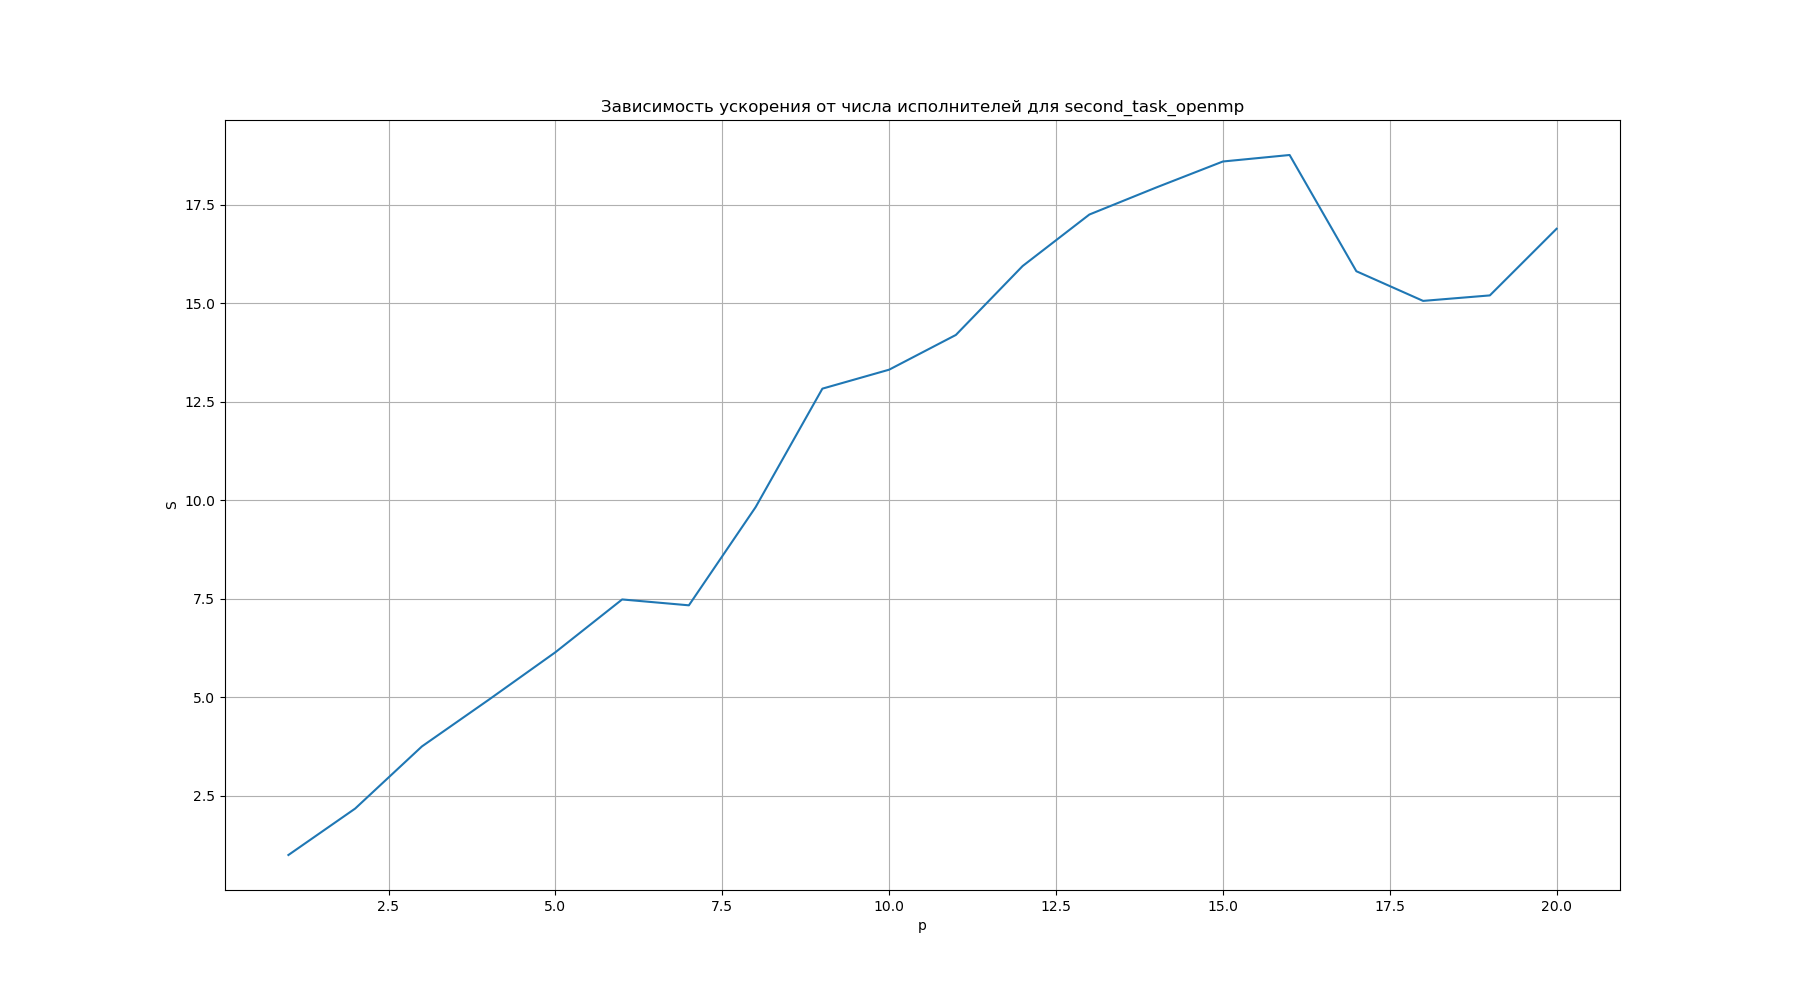
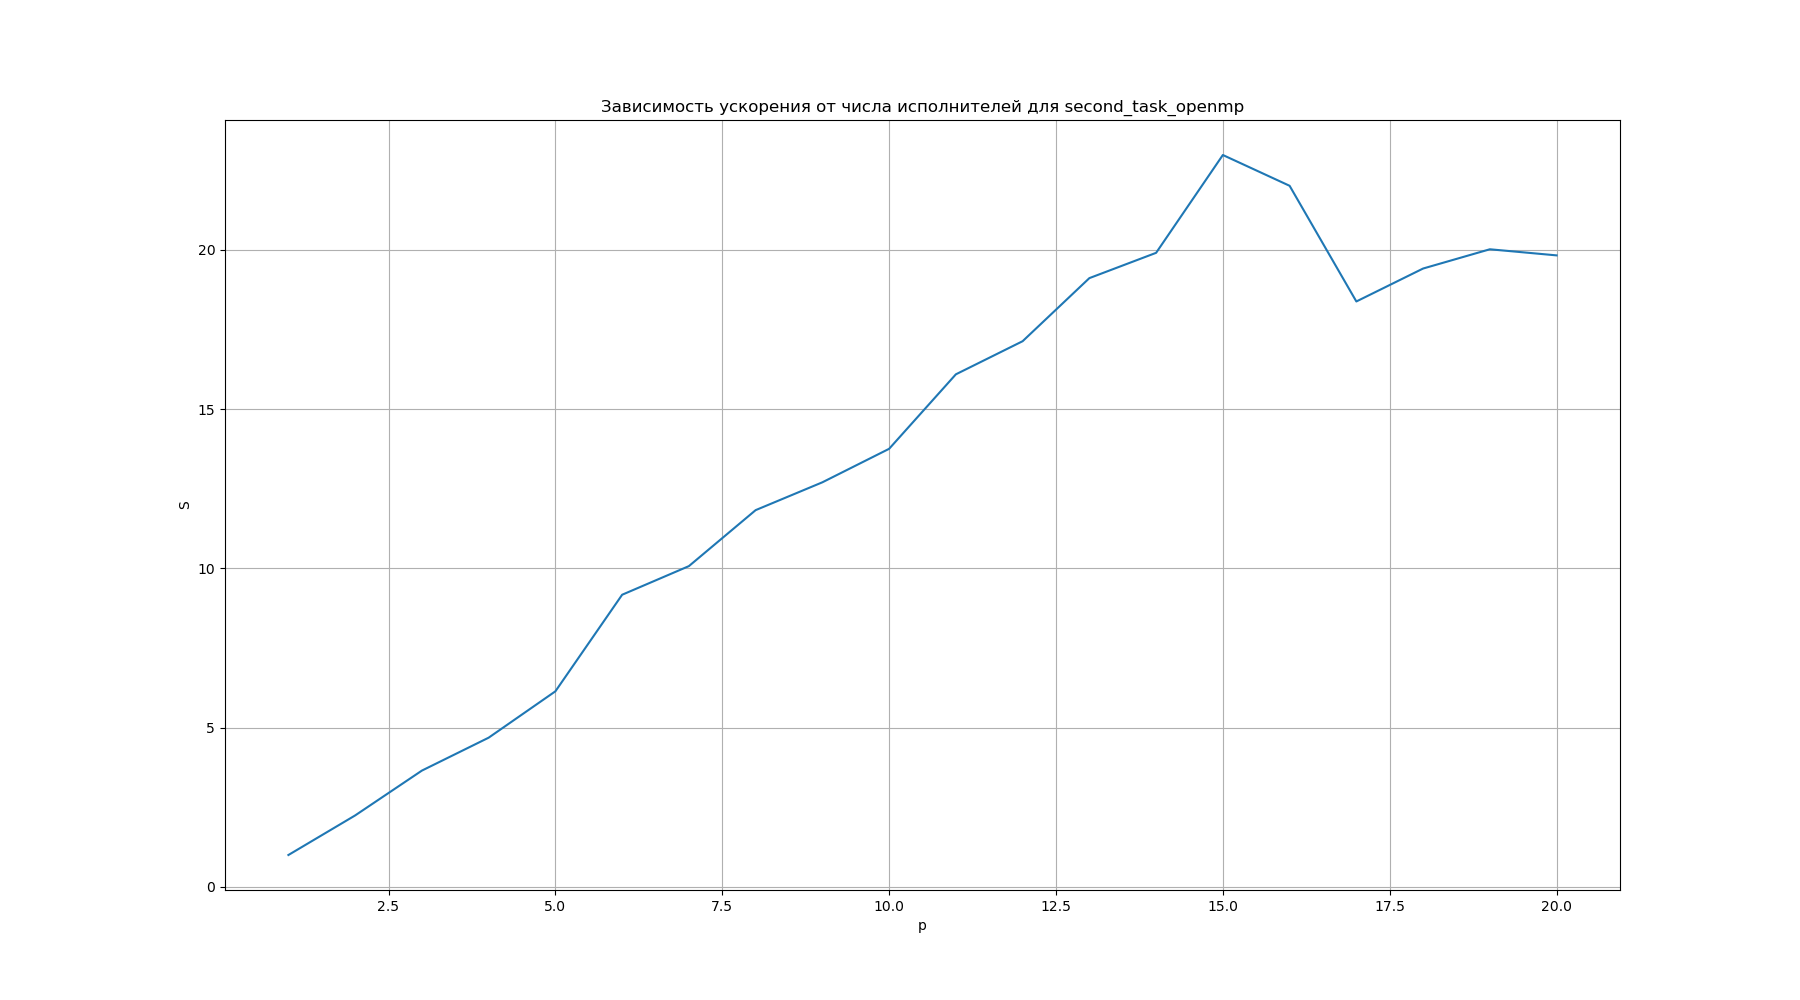
add working 3 task

diff --git a/2_semester/1_lab/src/third_task.cpp b/2_semester/1_lab/src/third_task.cpp
@@ -33,32 +33,19 @@ struct Worker {
         calc_size_ = end_ - start_;
         calc_array_ = new double[calc_size_ * JSIZE];
 
-        first_array_ = new double[calc_size_ * JSIZE];
+        first_array_ = new double[(calc_size_ + !last_rank_ - 1) * JSIZE];
         
-        for (size_t counter = 0; counter < calc_size_; ++counter) {
+        for (size_t counter = 0; counter < calc_size_ + (!last_rank_) - 1; ++counter) {
             for (size_t j = 0; j < JSIZE; ++j) {
-                first_array_[JSIZE * counter + j] = 10 * (start_ + counter) + j;
+                first_array_[JSIZE * counter + j] = 10 * (start_ + counter + 1) + j;
             }
         }
-        if (!last_rank_) {
-            // Since i <- i+ 1 we need only one boundary element with idx = end
-            // [start, end) => idx = end needed for calculate end - 1
-            boundary_arrray_ = new double[1 * JSIZE];
+        
+        StartMeasure();
 
-            for (size_t j = 0; j < JSIZE; ++j) {
-                boundary_arrray_[j] = 10 * end_ + j;
-            }
-        }
-        // StartMeasusre()
-        for (size_t counter = 0; counter < calc_size_; ++counter) {
+        for (size_t counter = 0; counter < calc_size_ + (!last_rank_) - 1; ++counter) {
             for (size_t j = 0; j < JSIZE; ++j) {
                 first_array_[JSIZE * counter + j] = std::sin(0.1 * first_array_[JSIZE * counter + j]);
-            }
-        }
-
-        if (!last_rank_) {
-            for (size_t j = 0; j < JSIZE; ++j) {
-                boundary_arrray_[j] = std::sin(0.1 * boundary_arrray_[j]);
             }
         }
     }
@@ -69,26 +56,35 @@ struct Worker {
             delete[] main_array_;
         }
         
-        if (!last_rank_) {
-            delete[] boundary_arrray_;
-        }
-
         delete[] calc_array_;
     }
 
     void Calculate()
     {
-        for (size_t counter = 0; counter < calc_size_ - 1; ++counter) {
+        for (size_t counter = 0; counter < calc_size_ + (!last_rank_) - 1; ++counter) {
             for (size_t j = 2; j < JSIZE; ++j) {
-                calc_array_[JSIZE * counter + j] = 1.5 * first_array_[JSIZE * (counter + 1) + (j - 2)];
+                calc_array_[JSIZE * counter + j] = 1.5 * first_array_[JSIZE * counter + (j - 2)];
             }
         }
+    }
 
-        if (!last_rank_) {
-            for (size_t j = 2; j < JSIZE; ++j) {
-                calc_array_[JSIZE * (calc_size_ - 1) + j] = 1.5 * boundary_arrray_[JSIZE * ((calc_size_ - 1) + 1) + (j - 2)];
-            }
+    void StartMeasure()
+    {
+        if (rank_ == 0) {
+            time_start_ = MPI::Wtime();
         }
+    }
+    
+    void EndMeasure()
+    {
+        if (rank_ == 0) {
+            time_stop_ = MPI::Wtime();
+        }
+    }
+
+    double GetElapsedTime() const
+    {
+        return time_stop_ - time_start_;
     }
 
     int rank_ {-1};
@@ -104,10 +100,11 @@ struct Worker {
     double *calc_array_ {nullptr};
     // Part of array, from which calc array will be calculate
     double *first_array_ {nullptr};
-    // Array for elements from different part. Actual for all workers except last
-    double *boundary_arrray_ {nullptr};
     // Array with full calculations. Actual only for root (0) worker
     double *main_array_ {nullptr};
+
+    double time_start_ {0.0};
+    double time_stop_  {0.0}; 
 };
 
 int main(int argc, char **argv) {
@@ -141,8 +138,6 @@ int main(int argc, char **argv) {
     printf("rank = %d, [%ld, %ld)\n", rank, start, end);
 
     Worker worker(rank, commsize, start, end);
-
-    double start_wtime = MPI::Wtime();
     
     worker.Calculate();
 
@@ -152,20 +147,12 @@ int main(int argc, char **argv) {
     
     if (rank == 0) {
         if (commsize == 1) {
-    //         for (int i = 0; i < worker.number_init_states_; ++i) {
-    //             double *current_array = worker.subarrays_[i]->Get();
-    //             size_t transition_nmb = worker.subarrays_[i]->GetTransitionNmb();
-
-    //             int offset = worker.start_ + i;
-    //             // std::cout << transition_nmb << std::endl;
-    //             for (size_t counter = 0; counter < transition_nmb + 1; ++counter) {
-    //                 std::memcpy(worker.main_array_ + offset * ISIZE, current_array + counter * JSIZE, JSIZE * sizeof(double));
-    //                 offset += 8;
-    //             }
-    //         }
+            std::memcpy(worker.main_array_ , worker.calc_array_, worker.calc_size_ * JSIZE * sizeof(double));
         }
-        double end_wtime = MPI::Wtime();
-        std::cout << "exec_time: " << end_wtime - start_wtime << std::endl;
+        worker.EndMeasure();
+        double elapsed_time = worker.GetElapsedTime();
+
+        std::cout << "exec_time: " << elapsed_time << std::endl;
         DumpToFile(("third_task_" + std::to_string(commsize) + ".txt").c_str(), worker.main_array_);
     }
 
@@ -184,20 +171,16 @@ void GatheringAllWork(const Worker& worker)
             std::memcpy(main_array, worker.calc_array_, zero_array_size * sizeof(double));
             offset += zero_array_size;
         }
-        printf("offset = %ld\n", offset);
 
         for (int cur_rank = 1; cur_rank < static_cast<int>(worker.commsize_); ++cur_rank) {
-            // printf("offset = %ld\n", offset);
             MPI_Status status;
 
             size_t recv_size = 0;
-            printf("offset = %ld\n", offset);
             MPI_Recv(&recv_size, 1, MPI::LONG_LONG, cur_rank, 0, MPI_COMM_WORLD, &status);
-            printf("recv_size = %ld, offset = %ld\n", recv_size, offset);
 
             double *recv_array = new double[recv_size];
 
-            // printf("recv_size = %ld, offset = %ld\n", recv_size, offset);
+            printf("recv_size = %ld, offset = %ld\n", recv_size, offset);
             MPI_Recv(recv_array, recv_size, MPI::DOUBLE, cur_rank, 0, MPI_COMM_WORLD, &status);    
             std::memcpy(main_array + offset, recv_array, recv_size * sizeof(double));
             offset += recv_size;

diff --git a/2_semester/1_lab/src/second_task.cpp b/2_semester/1_lab/src/second_task.cpp
@@ -7,7 +7,7 @@
 #include "array_file_output.h"
 #include "scoped_time_measure.h"
 
-static constexpr size_t ISIZE = 10000;
+static constexpr size_t ISIZE = 15000;
 static constexpr size_t JSIZE = ISIZE;
 
 void DumpToFile(const char *filename, double *array);
@@ -85,7 +85,7 @@ int main(int argc, char **argv) {
     double end_wtime = omp_get_wtime();
 
     std::cout << "exec_time: " << end_wtime - start_wtime << std::endl;
-    DumpToFile(("second_task_openmp_" + std::to_string(thread_number) + ".txt").c_str(), main_array);
+    // DumpToFile(("second_task_openmp_" + std::to_string(thread_number) + ".txt").c_str(), main_array);
 
     delete[] main_array;
 

diff --git a/2_semester/1_lab/src/init_variant.cpp b/2_semester/1_lab/src/init_variant.cpp
@@ -3,7 +3,7 @@
 #include "array_file_output.h"
 #include "scoped_time_measure.h"
 
-static constexpr size_t ISIZE = 25;
+static constexpr size_t ISIZE = 15000;
 static constexpr size_t JSIZE = ISIZE;
 
 void InitVariantBaseline();
@@ -12,10 +12,10 @@ void InitVariantSecondTask();
 void InitVariantThirdTask();
 
 int main() {
-    // InitVariantBaseline();
+    InitVariantBaseline();
     // InitVariantFirstTask();
     // InitVariantSecondTask();
-    InitVariantThirdTask();
+    // InitVariantThirdTask();
     return 0;
 }
 

diff --git a/2_semester/1_lab/src/baseline_openmp.cpp b/2_semester/1_lab/src/baseline_openmp.cpp
@@ -6,7 +6,7 @@
 #include "array_file_output.h"
 #include "scoped_time_measure.h"
 
-static constexpr size_t ISIZE = 10000;
+static constexpr size_t ISIZE = 15000;
 static constexpr size_t JSIZE = ISIZE;
 
 int GetThreadNumber(int argc, char** argv);
